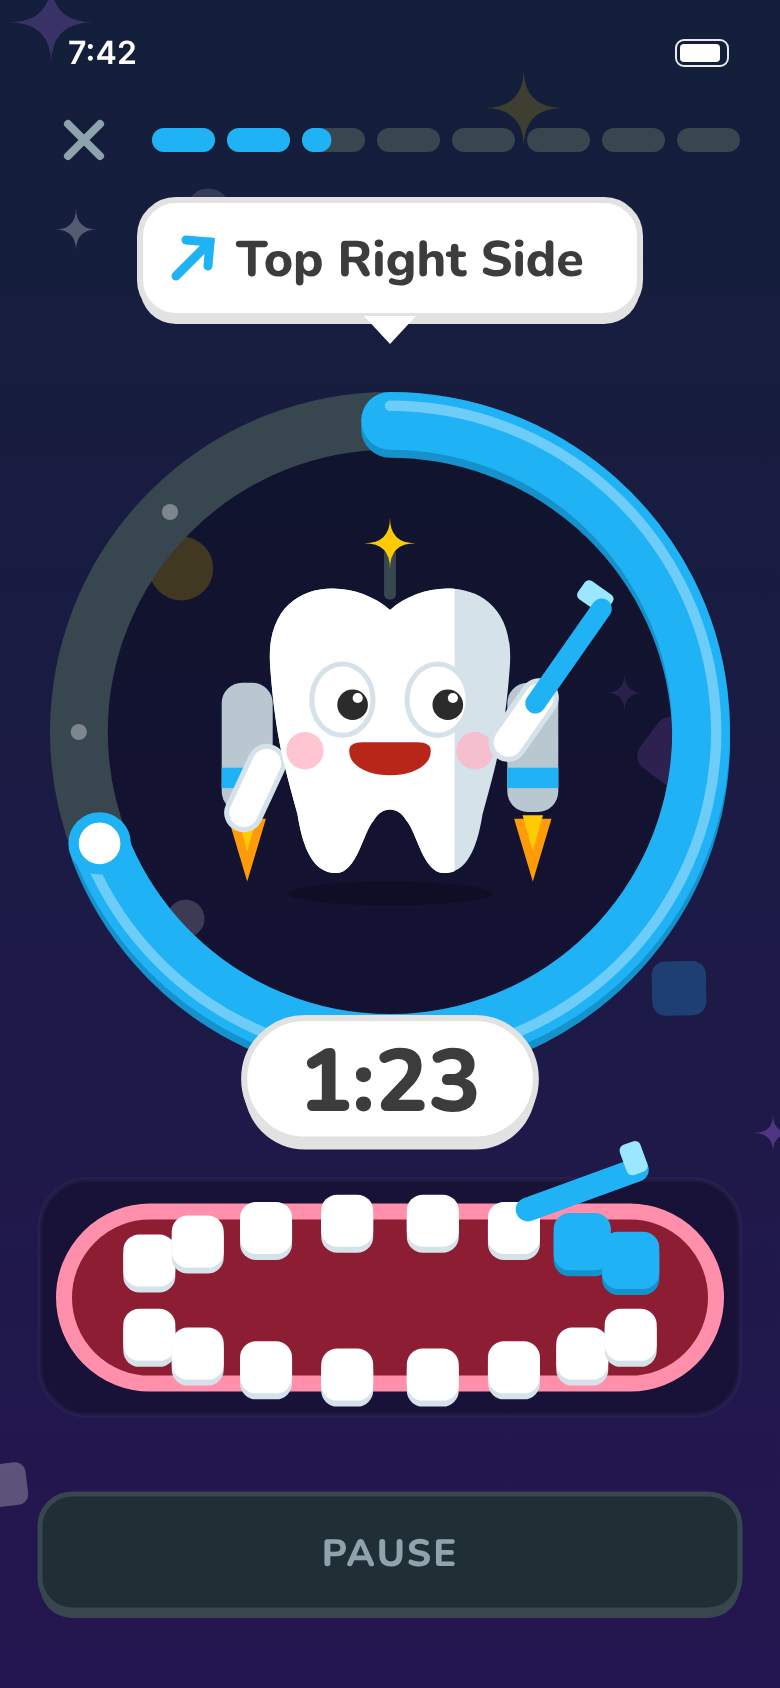
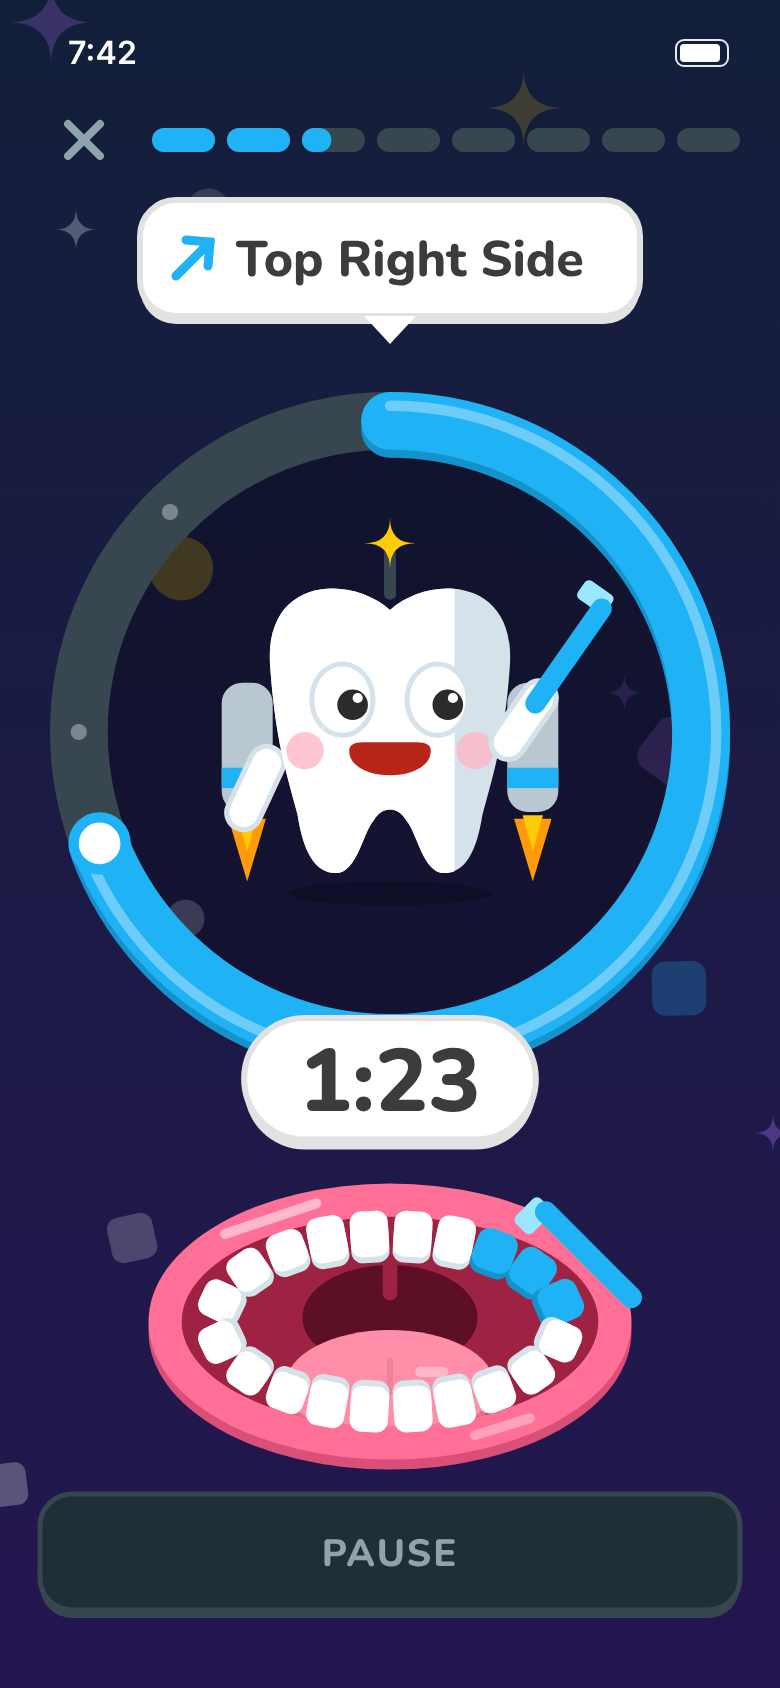
Redraw mouth map as a front-view open mouth
Glossy flat lips with a darker edge, throat, uvula and tongue, and 10 teeth
per row spaced evenly around the opening. Teeth to brush light up in the
theme color; the tongue glows during the tongue/inside zone.

Claude-Session: https://claude.ai/code/session_01DcateeMTnru1jWATFfvpC7

Changed region(s): [[0.0615, 0.6777, 0.9231, 0.8934]]

diff --git a/BrushBlast.swiftpm/Views/BrushingView.swift b/BrushBlast.swiftpm/Views/BrushingView.swift
@@ -31,7 +31,7 @@ struct BrushingView: View {
                     .layoutPriority(1)
                 Spacer(minLength: 0)
                 MouthMap(zone: session.zone, theme: theme)
-                    .frame(height: 118)
+                    .frame(height: 150)
                 Button("Pause") {
                     AudioManager.shared.play(.tap)
                     session.pause()
@@ -253,115 +253,218 @@ struct TimePill: View {
 
 // MARK: - Mouth map showing where to brush
 
+/// A big open cartoon mouth seen from the front: glossy lips, a row of teeth along
+/// the top and bottom, tongue and throat. The teeth to brush light up in the theme color
+/// and a toothbrush scrubs over them.
 struct MouthMap: View {
     let zone: BrushZone
     let theme: Theme
 
-    private var teethPerArch: Int { 8 }
+    private var teethPerRow: Int { 10 }
+
+    // flat mouth colors
+    private static let lip = Color(hex: 0xFF6F96)
+    private static let lipShade = Color(hex: 0xD94F78)
+    private static let inside = Color(hex: 0x9E2342)
+    private static let throat = Color(hex: 0x5C0F25)
+    private static let tongue = Color(hex: 0xFF8FA8)
+    private static let tongueShade = Color(hex: 0xE86F8C)
 
     var body: some View {
         GeometryReader { geo in
             let w = geo.size.width, h = geo.size.height
-            let rx = w * 0.38, ry = h * 0.30
-            let topCenter = CGPoint(x: w / 2, y: h * 0.47)
-            let bottomCenter = CGPoint(x: w / 2, y: h * 0.53)
+            let outerH = h * 0.92
+            let outer = CGSize(width: min(w * 0.9, outerH * 1.75), height: outerH)
+            let lipThickness = h * 0.11
+            let inner = CGSize(width: outer.width - lipThickness * 2, height: outer.height - lipThickness * 2)
+            let c = CGPoint(x: w / 2, y: h / 2)
+            let layout = TeethLayout(count: teethPerRow, inner: inner)
 
             ZStack {
-                // card
-                RoundedRectangle(cornerRadius: 24, style: .continuous)
-                    .fill(Color.black.opacity(0.25))
-                    .overlay(RoundedRectangle(cornerRadius: 24, style: .continuous).stroke(Color.white.opacity(0.12), lineWidth: 2.5))
+                // lips with a chunky darker edge underneath
+                Ellipse().fill(Self.lipShade)
+                    .frame(width: outer.width, height: outer.height)
+                    .position(x: c.x, y: c.y + 5)
+                Ellipse().fill(Self.lip)
+                    .frame(width: outer.width, height: outer.height)
+                    .position(c)
 
-                // mouth
-                Capsule()
-                    .fill(Color(hex: 0x8C1D33))
-                    .overlay(Capsule().stroke(Color(hex: 0xFF8FAB), lineWidth: 8))
-                    .padding(.horizontal, 12)
-                    .padding(.vertical, 16)
-
-                if zone == .bottomInside {
-                    Ellipse().fill(Palette.tongue).frame(width: 70, height: 40).position(x: w / 2, y: h * 0.62)
+                // inside of the mouth: throat, little dangly uvula, tongue
+                ZStack {
+                    Ellipse().fill(Self.inside)
+                    Ellipse().fill(Self.throat)
+                        .frame(width: inner.width * 0.42, height: inner.height * 0.5)
+                        .offset(y: -inner.height * 0.02)
+                    Capsule().fill(Self.inside)
+                        .frame(width: inner.width * 0.035, height: inner.height * 0.2)
+                        .offset(y: -inner.height * 0.2)
+                    tongueView(inner: inner)
                 }
+                .frame(width: inner.width, height: inner.height)
+                .clipShape(Ellipse())
+                .position(c)
 
-                ForEach(0..<teethPerArch, id: \.self) { i in
-                    tooth(isTop: true, index: i)
-                        .position(point(i, center: topCenter, rx: rx, ry: ry, top: true))
-                    tooth(isTop: false, index: i)
-                        .position(point(i, center: bottomCenter, rx: rx, ry: ry, top: false))
+                // glossy shine on the lips
+                lipShine(at: 238, length: 0.22, opacity: 0.5, center: c, outer: outer, lip: lipThickness)
+                lipShine(at: 60, length: 0.14, opacity: 0.35, center: c, outer: outer, lip: lipThickness)
+
+                // teeth
+                ForEach(0..<teethPerRow, id: \.self) { i in
+                    toothView(top: true, index: i, center: c, inner: inner, layout: layout)
+                    toothView(top: false, index: i, center: c, inner: inner, layout: layout)
                 }
 
                 // the toothbrush scrubs back and forth over the active spot
                 TimelineView(.animation) { tl in
                     let t = tl.date.timeIntervalSinceReferenceDate
                     FlatToothbrush(handle: theme.primary)
-                        .frame(width: 18, height: 70)
-                        .rotationEffect(.degrees(zone.isTop ? 70 : 110))
-                        .offset(x: sin(t * 14) * 12, y: cos(t * 7) * 3)
+                        .frame(width: h * 0.13, height: h * 0.5)
+                        .rotationEffect(.degrees(brushTilt))
+                        .offset(x: sin(t * 14) * 10, y: cos(t * 7) * 3)
                 }
-                .frame(width: 80, height: 80)
-                .position(brushPoint(w: w, topCenter: topCenter, bottomCenter: bottomCenter, rx: rx, ry: ry))
+                .frame(width: h * 0.6, height: h * 0.6)
+                .position(brushPoint(center: c, inner: inner, layout: layout))
                 .animation(.spring(response: 0.6, dampingFraction: 0.6), value: zone)
             }
         }
     }
 
+    // MARK: Pieces
+
+    private func tongueView(inner: CGSize) -> some View {
+        let glow = zone == .bottomInside
+        return TimelineView(.animation(minimumInterval: 1.0 / 30.0, paused: !glow)) { tl in
+            let t = tl.date.timeIntervalSinceReferenceDate
+            ZStack {
+                Ellipse().fill(Self.tongueShade).offset(y: 4)
+                Ellipse().fill(glow ? theme.primaryLight : Self.tongue)
+                Capsule().fill(Color.black.opacity(0.08))
+                    .frame(width: 3, height: inner.height * 0.18)
+                    .offset(y: -inner.height * 0.04)
+                Capsule().fill(Color.white.opacity(0.35))
+                    .frame(width: inner.width * 0.08, height: inner.height * 0.05)
+                    .offset(x: inner.width * 0.1, y: -inner.height * 0.06)
+            }
+            .frame(width: inner.width * 0.5, height: inner.height * 0.52)
+            .scaleEffect(glow ? 1 + 0.03 * sin(t * 8) : 1)
+        }
+        .offset(y: inner.height * 0.3)
+    }
+
+    private func lipShine(at degrees: Double, length: CGFloat, opacity: Double,
+                          center: CGPoint, outer: CGSize, lip: CGFloat) -> some View {
+        let a = degrees * .pi / 180
+        let rx = outer.width / 2 - lip / 2, ry = outer.height / 2 - lip / 2
+        let point = CGPoint(x: center.x + cos(a) * rx, y: center.y + sin(a) * ry)
+        let tangent = Angle(radians: atan2(cos(a) * ry, -sin(a) * rx))
+        return Capsule().fill(Color.white.opacity(opacity))
+            .frame(width: outer.width * length, height: lip * 0.3)
+            .rotationEffect(tangent)
+            .position(point)
+    }
+
     private func isActive(top: Bool, index: Int) -> Bool {
         guard zone.isTop == top else { return false }
-        guard let section = zone.section else { return true }   // inside: whole arch
+        guard let section = zone.section else { return true }   // inside: whole row
         switch section {
-        case .left: return index <= 1
-        case .front: return (2...5).contains(index)
-        case .right: return index >= 6
+        case .left: return index <= 2
+        case .front: return (3...6).contains(index)
+        case .right: return index >= 7
         }
     }
 
-    private func tooth(isTop: Bool, index: Int) -> some View {
-        let active = isActive(top: isTop, index: index)
+    private func onEllipse(_ a: Double, center: CGPoint, inner: CGSize, scale: CGFloat) -> CGPoint {
+        CGPoint(x: center.x + cos(a) * inner.width / 2 * scale,
+                y: center.y + sin(a) * inner.height / 2 * scale)
+    }
+
+    private func toothView(top: Bool, index: Int, center: CGPoint, inner: CGSize, layout: TeethLayout) -> some View {
+        let a = top ? layout.topAngles[index] : layout.bottomAngles[index]
+        let active = isActive(top: top, index: index)
         let inside = active && zone.section == nil
+        // turn each tooth so its root points out toward the lips
+        let nx = cos(a) / (inner.width / 2), ny = sin(a) / (inner.height / 2)
+        let rotation = Angle(radians: atan2(ny, nx) + .pi / 2)
+        let front = (3...6).contains(index)
+        let size = CGSize(width: layout.toothWidth, height: layout.toothWidth * (front ? 1.2 : 1.0))
+        let corner = size.width * 0.3
+
         return TimelineView(.animation(minimumInterval: 1.0 / 30.0, paused: !active)) { tl in
             let t = tl.date.timeIntervalSinceReferenceDate
             ZStack {
-                RoundedRectangle(cornerRadius: 8, style: .continuous)
+                RoundedRectangle(cornerRadius: corner, style: .continuous)
                     .fill(active ? theme.primaryLip : Palette.toothShade)
                     .offset(y: 3)
-                RoundedRectangle(cornerRadius: 8, style: .continuous)
+                RoundedRectangle(cornerRadius: corner, style: .continuous)
                     .fill(active ? theme.primary : Color.white)
                 if inside {
-                    RoundedRectangle(cornerRadius: 8, style: .continuous)
-                        .stroke(Color.white, style: StrokeStyle(lineWidth: 2.5, dash: [4, 3]))
+                    RoundedRectangle(cornerRadius: corner, style: .continuous)
+                        .stroke(Color.white, style: StrokeStyle(lineWidth: 2, dash: [3, 3]))
                 }
             }
-            .frame(width: 26, height: 26)
-            .scaleEffect(active ? 1.1 + 0.05 * sin(t * 9 + Double(index)) : 1)
+            .frame(width: size.width, height: size.height)
+            .scaleEffect(active ? 1.08 + 0.05 * sin(t * 9 + Double(index)) : 1)
         }
-        .frame(width: 32, height: 32)
+        .rotationEffect(rotation)
+        .position(onEllipse(a, center: center, inner: inner, scale: TeethLayout.ring))
     }
 
-    private func angle(_ i: Int, top: Bool) -> Double {
-        let f = Double(i) / Double(teethPerArch - 1)
-        // top arch is an upside-down U, bottom arch a U
-        return top ? (.pi * (1.14 + 0.72 * f)) : (.pi * (0.86 - 0.72 * f))
-    }
-
-    private func point(_ i: Int, center: CGPoint, rx: CGFloat, ry: CGFloat, top: Bool) -> CGPoint {
-        let a = angle(i, top: top)
-        return CGPoint(x: center.x + cos(a) * rx, y: center.y + sin(a) * ry)
-    }
-
-    private func brushPoint(w: CGFloat, topCenter: CGPoint, bottomCenter: CGPoint, rx: CGFloat, ry: CGFloat) -> CGPoint {
-        let index: Int
+    private var brushTilt: Double {
         switch zone.section {
-        case .left: index = 1
-        case .right: index = 6
-        case .front, .none: index = 3
+        case .left: return zone.isTop ? 45 : 135
+        case .right: return zone.isTop ? -45 : -135
+        default: return 90
         }
-        let center = zone.isTop ? topCenter : bottomCenter
-        var p = point(index, center: center, rx: rx, ry: ry, top: zone.isTop)
-        if zone.section == .front || zone.section == nil { p.x += w * 0.04 }
-        // sit just outside the teeth (or inside, for the "inside" zones)
-        let push: CGFloat = zone.section == nil ? -30 : 26
-        p.y += zone.isTop ? -push : push
-        return p
+    }
+
+    private func brushPoint(center: CGPoint, inner: CGSize, layout: TeethLayout) -> CGPoint {
+        let angles = zone.isTop ? layout.topAngles : layout.bottomAngles
+        let a: Double
+        switch zone.section {
+        case .left: a = angles[1]
+        case .right: a = angles[angles.count - 2]
+        case .front, .none: a = zone.isTop ? -.pi / 2 : .pi / 2
+        }
+        // outside zones: over the lips; inside zones: in toward the middle of the mouth
+        let scale: CGFloat = zone.section == nil ? 0.45 : 1.15
+        return onEllipse(a, center: center, inner: inner, scale: scale)
+    }
+}
+
+/// Spreads the teeth evenly (by distance, not angle) around each half of the mouth.
+struct TeethLayout {
+    static let ring: CGFloat = 0.84     // how far out from the center the teeth sit
+
+    let topAngles: [Double]
+    let bottomAngles: [Double]
+    let toothWidth: CGFloat
+
+    init(count: Int, inner: CGSize) {
+        let rx = Double(inner.width / 2 * Self.ring), ry = Double(inner.height / 2 * Self.ring)
+        let (top, length) = Self.evenAngles(count: count, from: .pi, to: 2 * .pi, rx: rx, ry: ry)
+        let (bottom, _) = Self.evenAngles(count: count, from: .pi, to: 0, rx: rx, ry: ry)
+        topAngles = top
+        bottomAngles = bottom
+        toothWidth = CGFloat(length / Double(count)) * 0.9
+    }
+
+    private static func evenAngles(count: Int, from a0: Double, to a1: Double, rx: Double, ry: Double) -> ([Double], Double) {
+        let steps = 240
+        var lengths: [Double] = [0]
+        var prev = (x: cos(a0) * rx, y: sin(a0) * ry)
+        for s in 1...steps {
+            let a = a0 + (a1 - a0) * Double(s) / Double(steps)
+            let p = (x: cos(a) * rx, y: sin(a) * ry)
+            lengths.append(lengths[lengths.count - 1] + hypot(p.x - prev.x, p.y - prev.y))
+            prev = p
+        }
+        let total = lengths[lengths.count - 1]
+        let angles = (0..<count).map { k -> Double in
+            let target = total * (Double(k) + 0.5) / Double(count)
+            let i = lengths.firstIndex { $0 >= target } ?? steps
+            return a0 + (a1 - a0) * Double(i) / Double(steps)
+        }
+        return (angles, total)
     }
 }
 
